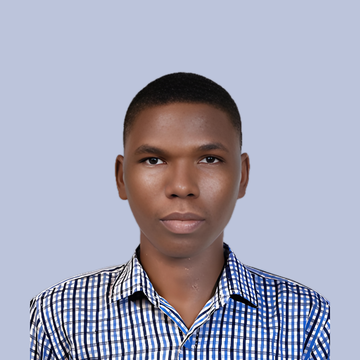
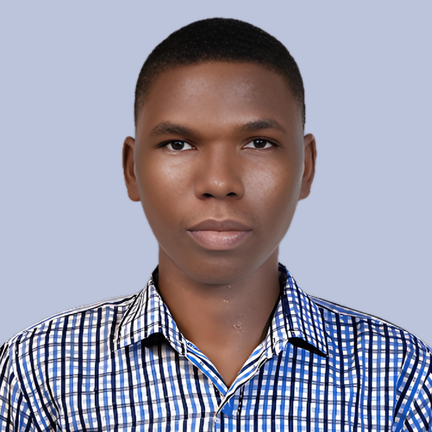
still cards

diff --git a/card.html b/card.html
@@ -1,59 +1,23 @@
 <!doctype html><html><head><meta charset="utf-8">
-<link href="https://fonts.googleapis.com/css2?family=Inter:wght@400;500;700&display=block" rel="stylesheet">
-<style>*{margin:0;padding:0;box-sizing:border-box}html,body{overflow:hidden;font-family:Inter,sans-serif}
-#s{position:relative;overflow:hidden}#in{position:absolute;left:92px;right:92px}
-.who{display:flex;align-items:center;gap:28px;margin-bottom:64px}.who img{width:136px;height:136px;border-radius:50%;border:6px solid}
-.name{font-weight:700;font-size:50px;line-height:1.15}.handle{font-size:40px}
-#t{line-height:1.27;letter-spacing:-.015em;font-weight:500}#t p{text-wrap:balance}#t p+p{margin-top:.6em}.w{display:inline-block}
-.sc{position:absolute;inset:0;overflow:hidden}.sc .bd{position:absolute;top:-30%;height:160%;width:170px;transform:skewX(-18deg)}.sc .ph{position:absolute;left:92px;right:92px;top:560px;height:860px;display:flex;align-items:center;font-weight:700;letter-spacing:-.03em;line-height:1.06}.sc .ph span{text-wrap:balance;transform-origin:0 50%}.top{position:absolute;left:92px;top:250px;display:flex;align-items:center;gap:28px;z-index:5}.top img{width:136px;height:136px;border-radius:50%;border:6px solid}
-#bar{z-index:6;position:absolute;left:0;bottom:0;height:14px;width:0}</style></head><body>
-<div id="s"><div id="in"><div class="who"><img src="avatar.png"><div><div class="name">Ayo Adesina</div><div class="handle">@ayo_deshina</div></div></div><div id="t"></div></div><div id="bar"></div></div>
+<link href="https://fonts.googleapis.com/css2?family=DM+Sans:opsz,wght@9..40,500;9..40,700;9..40,800&display=block" rel="stylesheet">
+<style>*{margin:0;padding:0;box-sizing:border-box}body{font-family:"DM Sans",sans-serif}
+.c{width:1080px;height:1350px;padding:0 96px;display:flex;flex-direction:column;justify-content:center;overflow:hidden}
+.who{display:flex;align-items:center;gap:28px;margin-bottom:60px}.who img{width:144px;height:144px;border-radius:50%;border:6px solid #fff;object-fit:cover}
+.name{font-weight:700;font-size:48px;line-height:1.15}.handle{font-weight:500;font-size:38px}
+.t{font-weight:800;line-height:1.16;letter-spacing:-.014em}.t p{text-wrap:balance}.t p+p{margin-top:.6em}</style></head><body>
+<div class="c"><div class="who"><img src="avatar.png"><div><div class="name">Ayo Adesina</div><div class="handle">@ayo_deshina</div></div></div><div class="t"></div></div>
 <script>
-const C={motivation:["#2C3456","#FFFFFF","#BCC4DB"],opinion:["#4D6AA7","#FFFFFF","#FFFFFF"],lesson:["#BCC4DB","#1C2240","#1C2240"],session:["#BCC4DB","#1C2240","#1C2240"],buyers:["#7A93C8","#1C2240","#1C2240"],builder:["#1C2240","#FFFFFF","#BCC4DB"]};
-const $=(q)=>document.querySelector(q);let words=[],paras=[];
-// Hook only for story posts: the caption carries the rest. Motivation and opinion are one whole thought.
-window.setup=async(p,video)=>{const[bg,fg,h]=C[p.lane],W=1080,H=video?1920:1350,top=video?330:140,room=H-top-(video?470:150);
- $("#s").style.cssText=`width:${W}px;height:${H}px;background:${bg};color:${fg}`;$("#in").style.top=top+"px";$(".handle").style.color=h;$(".who img").style.borderColor=fg;$("#bar").style.background=h;
- paras=p.lane==="motivation"||p.lane==="opinion"?p.text.split("\n\n"):p.text.split("\n\n").slice(0,1);
- $("#t").replaceChildren(...paras.map((x)=>{const e=document.createElement("p");x.split(" ").forEach((w,i)=>{const s=document.createElement("span");s.className="w";s.textContent=w;if(i)e.append(" ");e.append(s)});return e}));
- words=[...document.querySelectorAll(".w")];await document.fonts.load("500 80px Inter");await document.fonts.ready;
- let why=["not tried"],size=0;for(size=132;size>=64;size-=4){$("#t").style.fontSize=size+"px";why=problems(room,W,H,video,top);if(!why.length)break}
- return{ok:!why.length,why,size,words:words.length,font:document.fonts.check("500 80px Inter"),end:Math.round($("#in").getBoundingClientRect().bottom)}};
-function lines(p){const L=[];for(const w of p.querySelectorAll(".w")){const r=w.getBoundingClientRect(),l=L.at(-1);if(l&&Math.abs(l.y-r.top)<10){l.n++;l.r=r.right}else L.push({y:r.top,n:1,l:r.left,r:r.right})}return L}
-function problems(room,W,H,video,top){const b=[],box=$("#in").getBoundingClientRect();if(box.height>room)b.push("too tall");
- if(words.some((w)=>w.getBoundingClientRect().right>W-88))b.push("touches the right edge");
- const ps=[...document.querySelectorAll("#t p")].map(lines),widest=Math.max(...ps.flat().map((l)=>l.r-l.l));
- for(const L of ps)if(L.length>1&&(L.at(-1).n===1||L.at(-1).r-L.at(-1).l<.25*widest))b.push("lone word on the last line");
- if(!video&&box.bottom<.66*H&&!b.length)b.push("card is half empty");return b}
-const ease=(x)=>{x=Math.max(0,Math.min(1,x));return 1-Math.pow(1-x,3)};
-// Moving version: big phrases on brand blues, each wiping over the last, ending on the approved card.
-const G={d:["#1C2240","#2C3456","#FFFFFF"],n:["#2C3456","#1C2240","#FFFFFF"],c:["#4D6AA7","#2C3456","#FFFFFF"],s:["#7A93C8","#BCC4DB","#1C2240"],l:["#BCC4DB","#7A93C8","#1C2240"]};
-const ORDER={motivation:["n","l","c","l"],opinion:["c","l","n","l"],lesson:["l","n","s","c"],session:["l","n","s","c"],buyers:["s","n","l","c"],builder:["d","l","c","l"]};
-const SET=(x)=>new Set(x.split(" "));
-const CONJ=SET("because but and so or if when while before after until that which who what how where why than then unless although"),PREP=SET("to in on at for with from by of about into without over under through between during as"),DET=SET("a an the your my our their his her its this these those every each one no some any"),SUBJ=SET("i you we they he she it nobody somebody everyone people"),VERB=SET("is are was were be been do does did have has had can could will would should must may might cannot not");
-const norm=(x)=>x.toLowerCase().replace(/[^a-z0-9']/g,"");
-// Where a person would pause: after a comma, before a joining word, before a preposition, before a subject. Never between "the" and its noun, or before a trailing "it".
-function pause(w,i,first){const L=w[i-1],p=norm(L),n=norm(w[i]);if(/[,:;]$/.test(L))return -8;if(DET.has(p)||PREP.has(p)||p==="because"||p==="not")return 9;if(CONJ.has(p)&&!SUBJ.has(n))return 6;if(VERB.has(p))return 5;if(SUBJ.has(p))return 6;if(n==="it"||n==="them"||n==="me")return 7;
- if(CONJ.has(n))return -4;if(PREP.has(n))return n==="of"?3:-2;if(SUBJ.has(n))return -2;if(DET.has(n))return 0;if(VERB.has(n))return 2;return 4}
-function phrases(ps){const out=[];ps.forEach((p,pi)=>{const w=p.split(" "),N=w.length,best=Array(N+1).fill(Infinity),from=Array(N+1).fill(0);best[0]=0;
- for(let j=1;j<=N;j++)for(let i=Math.max(0,j-8);i<j;i++){const k=j-i,first=pi===0&&i===0,ch=w.slice(i,j).join(" ").length;if(k>(first?8:6)||ch>(first?40:34))continue;let c=best[i]+(j<N?pause(w,j):0);c+=first?Math.abs(k-5)*.9:k===1?7:Math.abs(k-4)*1.1;c+=2.2+8*w.slice(i,j-1).filter((x)=>/[,:;]$/.test(x)).length;if(c<best[j]){best[j]=c;from[j]=i}}
- const cut=[];for(let j=N;j>0;j=from[j])cut.unshift(w.slice(from[j],j).join(" "));out.push(...cut)});return out}
-let SC=[],FIN=0,DUR=0;
-window.setupMove=async(p)=>{const r=await setup(p,true);if(!r.ok)return r;const s=$("#s"),o=ORDER[p.lane],bad=[];await document.fonts.load("700 150px Inter");
- let at=0;const hd=(fg)=>{const t=document.createElement("div");t.className="top";t.innerHTML=$(".who").innerHTML;t.style.color=fg;t.querySelector("img").style.borderColor=fg;t.querySelector(".handle").style.color=fg;return t};
- SC=phrases(paras).map((t,i)=>{const k=o[i%o.length],[bg,bd,fg]=G[k],e=document.createElement("div");e.className="sc";e.style.background=bg;
-  for(let b=0;b<4;b++){const x=document.createElement("div");x.className="bd";x.style.background=bd;e.append(x)}
-  const ph=document.createElement("div");ph.className="ph";ph.style.color=fg;const sp=document.createElement("span");sp.textContent=t;ph.append(sp);e.append(ph,hd(fg));s.append(e);
-  let z=200;for(;z>=96;z-=6){ph.style.fontSize=z+"px";if(sp.scrollWidth<=896&&sp.getBoundingClientRect().width<=897&&sp.getBoundingClientRect().height<=860)break}
-  const rg=document.createRange();rg.selectNodeContents(sp);if([...rg.getClientRects()].some((q)=>q.right>1000))bad.push("phrase too wide: "+t);if(z<96)bad.push("phrase too long: "+t);
-  const d=Math.max(.95,.5+.23*t.split(" ").length),c={e,sp,at,d,fg,z,t};at+=d;return c});
- $("#in").style.zIndex=4;s.append($("#in"));s.append($("#bar"));FIN=at;DUR=at+Math.max(1.9,.8+.055*r.words);
- return{...r,ok:!bad.length,why:bad,secs:DUR,phrases:SC.map((c)=>c.t+" @"+c.z)}};
-window.seek=(t)=>{SC.forEach((c,i)=>{const on=t>=c.at-1e-6;c.e.style.visibility=on?"visible":"hidden";if(!on)return;const u=t-c.at,k=i?ease(u/.36):1,x=-18+(136*k);
-  c.e.style.clipPath=k>=1?"none":i%2?`polygon(0 0,${x+18}% 0,${x}% 100%,0 100%)`:`polygon(${100-x}% 0,100% 0,100% 100%,${82-x}% 100%)`;
-  [...c.e.querySelectorAll(".bd")].forEach((b,j)=>{const P=1840,q=((j*460+t*330)%P+P)%P;b.style.left=(q-440)+"px"});
-  const en=i?ease((u-.1)/.34):1;c.sp.style.transform=`translateX(${(1-en)*140}px) scale(${1+.05*u/c.d})`;c.sp.style.opacity=i?en:1});
- const f=t>=FIN;
- const IN=$("#in");IN.style.visibility=f?"visible":"hidden";$("#bar").style.width=100*t/DUR+"%";
- if(f){SC.forEach((c)=>c.e.style.visibility="hidden");const u=t-FIN;words.forEach((w,i)=>{const k=ease((u-.02*i)/.3);w.style.opacity=k;w.style.transform=`translateY(${(1-k)*46}px)`})}else words.forEach((w)=>{w.style.opacity=1;w.style.transform="none"})};
+// Brand blues only: ground, text, handle. One size step for every card so a feed of them looks like one set.
+const C=[["#2C3456","#FFFFFF","#BCC4DB"],["#4D6AA7","#FFFFFF","#FFFFFF"],["#BCC4DB","#1C2240","#1C2240"],["#1C2240","#FFFFFF","#BCC4DB"],["#7A93C8","#1C2240","#1C2240"]],SIZES=[80,76,72],MARGIN=110;
+const $=(q)=>document.querySelector(q);
+window.setup=async(p)=>{const[bg,fg,h]=C[p.colour%C.length],c=$(".c"),t=$(".t");c.style.background=bg;c.style.color=fg;$(".handle").style.color=h;
+ t.replaceChildren(...p.text.split("\n\n").map((x)=>{const e=document.createElement("p");e.textContent=x;return e}));
+ await document.fonts.load('800 84px "DM Sans"');await document.fonts.load('700 48px "DM Sans"');await document.fonts.ready;await $(".who img").decode();
+ let why=["not tried"],size=0;for(size of SIZES){t.style.fontSize=size+"px";why=problems();if(!why.length)break}
+ return{ok:!why.length,why,size,font:document.fonts.check('800 84px "DM Sans"'),photo:$(".who img").naturalWidth,margin:Math.round($(".who").getBoundingClientRect().top)}};
+function problems(){const b=[],c=$(".c").getBoundingClientRect(),W=$(".who").getBoundingClientRect(),t=$(".t").getBoundingClientRect();
+ if(W.top-c.top<MARGIN||c.bottom-t.bottom<MARGIN)b.push("too tall");if((t.bottom-W.top)/c.height<.42)b.push("too little on the card");
+ for(const p of document.querySelectorAll(".t p")){const r=document.createRange(),L=[];const n=p.firstChild;let i=0;for(const w of n.data.split(" ")){r.setStart(n,i);r.setEnd(n,i+w.length);i+=w.length+1;const q=r.getBoundingClientRect(),l=L.at(-1);if(q.right>c.right-90)b.push("touches the right edge");if(l&&Math.abs(l.y-q.top)<10){l.n++;l.r=q.right}else L.push({y:q.top,n:1,l:q.left,r:q.right})}
+  const wide=Math.max(...L.map((l)=>l.r-l.l));if(L.length>1&&(L.at(-1).n===1||L.at(-1).r-L.at(-1).l<.28*wide))b.push("lone word on the last line")}
+ return[...new Set(b)]}
 </script></body></html>

diff --git a/render.py b/render.py
@@ -1,37 +1,17 @@
-"""Render cards. python3 render.py posts.json outdir. Each post: {id, lane, text}. Writes <id>.jpg, <id>.mp4 and report.json. A card that fails its layout check is not written."""
-import json,sys,subprocess,pathlib,urllib.request,hashlib
+"""Still cards. python3 render.py posts.json outdir. Each post: {id, lane, text, colour}. Only motivation and opinion become cards. A card that fails its layout check is not written."""
+import json,sys,pathlib
 from playwright.sync_api import sync_playwright
-H=pathlib.Path(__file__).resolve().parent;posts=json.load(open(sys.argv[1]));O=pathlib.Path(sys.argv[2]);O.mkdir(parents=True,exist_ok=True);FPS=30
-TRACKS=[282,135,173,131,872]  # Mixkit, fetched at build time, never stored here
-def music(pid):
-    t=TRACKS[int(hashlib.sha1(pid.encode()).hexdigest(),16)%len(TRACKS)];f=O/f"m{t}.mp3"
-    if not f.exists():
-        r=urllib.request.Request(f"https://assets.mixkit.co/music/{t}/{t}.mp3",headers={"User-Agent":"Mozilla/5.0"});f.write_bytes(urllib.request.urlopen(r,timeout=60).read())
-    assert f.stat().st_size>200000,("music too small",f);return f
-rep=[]
+H=pathlib.Path(__file__).resolve().parent;posts=json.load(open(sys.argv[1]));O=pathlib.Path(sys.argv[2]);O.mkdir(parents=True,exist_ok=True);rep=[]
 with sync_playwright() as p:
     b=p.chromium.launch(channel="chrome")
     for x in posts:
-        r={"id":x["id"],"lane":x["lane"]}
+        r={"id":x["id"],"lane":x["lane"],"ok":False}
         try:
-            g=b.new_page(viewport={"width":1080,"height":1350});g.goto((H/"card.html").as_uri());s=g.evaluate("p=>setup(p,false)",x);r["still"]=s
-            g.evaluate("()=>document.querySelector('#bar').remove()")
-            if not s["ok"] or not s["font"]: raise ValueError("still: "+", ".join(s["why"] or ["font missing"]))
-            g.screenshot(path=str(O/f"{x['id']}.jpg"),type="jpeg",quality=93);g.close()
-            g=b.new_page(viewport={"width":1080,"height":1920});g.goto((H/"card.html").as_uri());s=g.evaluate("p=>setupMove(p)",x);r["video"]=s
-            if not s["ok"] or not s["font"]: raise ValueError("video: "+", ".join(s["why"] or ["font missing"]))
-            D=round(s["secs"],2);assert 5<=D<=28,("length",D);n=int(D*FPS);out=O/f"{x['id']}.mp4"
-            ff=subprocess.Popen(["ffmpeg","-y","-loglevel","error","-f","image2pipe","-framerate",str(FPS),"-c:v","mjpeg","-i","-","-ss","4","-i",str(music(x["id"])),"-t",str(D),"-map","0:v","-map","1:a","-af",f"loudnorm=I=-16:TP=-1.5:LRA=11,afade=t=in:d=0.2,afade=t=out:st={D-.9}:d=0.9","-c:v","libx264","-preset","medium","-crf","18","-pix_fmt","yuv420p","-c:a","aac","-b:a","160k","-ar","44100","-movflags","+faststart",str(out)],stdin=subprocess.PIPE)
-            for i in range(n):
-                g.evaluate("t=>seek(t)",i/FPS);ff.stdin.write(g.screenshot(type="jpeg",quality=95))
-            ff.stdin.close();assert ff.wait()==0,"ffmpeg failed";g.close()
-            q=json.loads(subprocess.check_output(["ffprobe","-v","error","-show_streams","-show_format","-of","json",str(out)]))
-            kinds={y["codec_type"] for y in q["streams"]};assert kinds>={"video","audio"},kinds
-            r.update(ok=True,secs=round(float(q["format"]["duration"]),2),bytes=out.stat().st_size)
-        except Exception as e:
-            r.update(ok=False,error=str(e)[:200])
-            for f in (O/f"{x['id']}.jpg",O/f"{x['id']}.mp4"): f.unlink(missing_ok=True)
-        rep.append(r);print(r["id"],r.get("ok"),r.get("secs"),r.get("error",""),flush=True)
+            if x["lane"] not in ("motivation","opinion"): raise ValueError("not a card post")
+            g=b.new_page(viewport={"width":1080,"height":1350},device_scale_factor=2);g.goto((H/"card.html").as_uri());s=g.evaluate("p=>setup(p)",x);r.update(s)
+            if not s["ok"] or not s["font"] or s["photo"]<300: r["ok"]=False;raise ValueError(", ".join(s["why"]) or "font or photo missing")
+            g.screenshot(path=str(O/f"{x['id']}.jpg"),type="jpeg",quality=92);g.close()
+        except Exception as e: r["error"]=str(e)[:160]
+        rep.append(r);print(r["id"],r["ok"],r.get("size"),r.get("margin"),r.get("error",""),flush=True)
     b.close()
-for f in O.glob("m*.mp3"): f.unlink()
 json.dump(rep,open(O/"report.json","w"),indent=1);sys.exit(0 if any(r["ok"] for r in rep) else 1)
